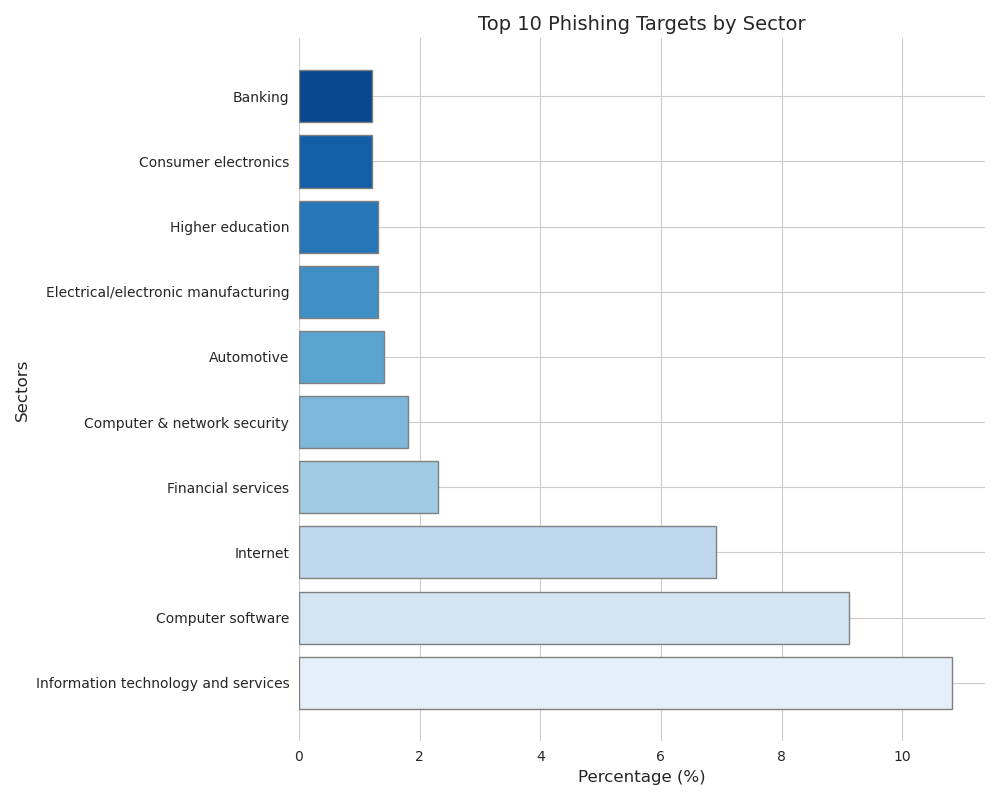
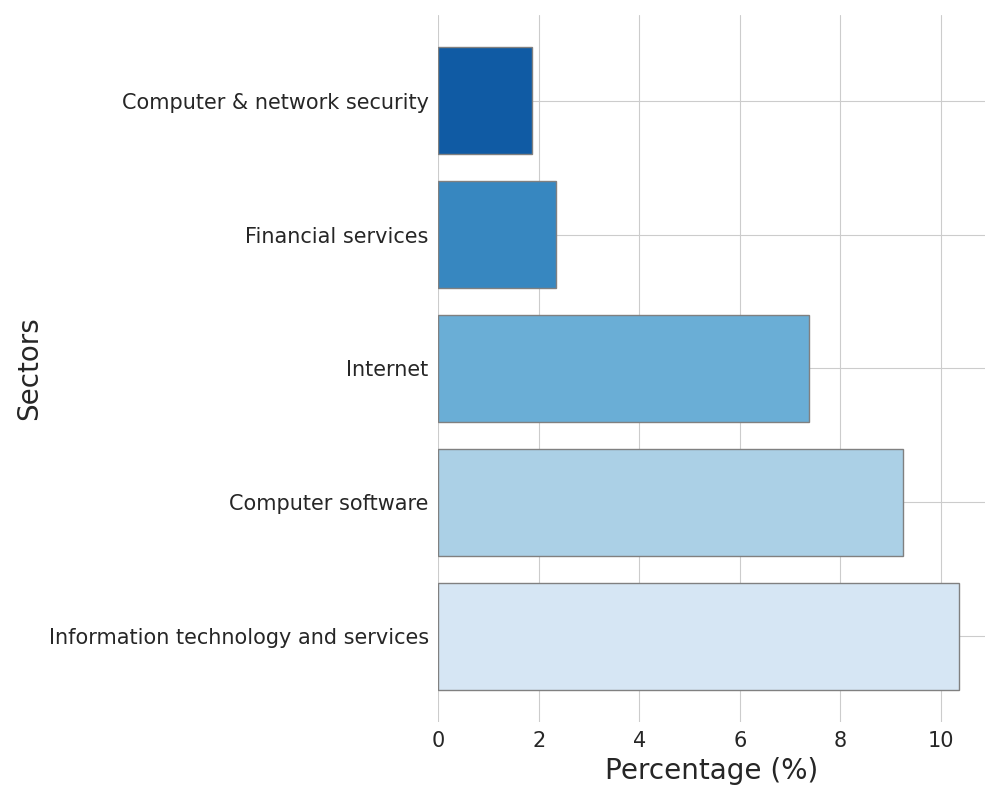
update plots

diff --git a/field_study/draw_utils.py b/field_study/draw_utils.py
@@ -229,7 +229,7 @@ class BrandAnalysis:
         plt.savefig('./field_study/plots/brand_freq.png')
         plt.close()
 
-    def visualize_sectors(sectors, topk=10):
+    def visualize_sectors(sectors, topk=5):
         # Aggregate the sectors
         sector_counts = Counter(sectors)
 
@@ -254,10 +254,10 @@ class BrandAnalysis:
         colors = sns.color_palette("Blues", len(labels))
 
         ax.barh(labels, percentages, color=colors, edgecolor='grey')
-        ax.set_xlabel('Percentage (%)', fontsize=12)
-        ax.set_ylabel('Sectors', fontsize=12)
-        ax.set_title('Top {} Phishing Targets by Sector'.format(topk), fontsize=14)
-        ax.tick_params(axis='both', which='major', labelsize=10)
+        ax.set_xlabel('Percentage (%)', fontsize=20)
+        ax.set_ylabel('Sectors', fontsize=20)
+        # ax.set_title('Top {} Phishing Targets by Sector'.format(topk), fontsize=20)
+        ax.tick_params(axis='both', which='major', labelsize=15)
 
         sns.despine(left=True, bottom=True)
         plt.tight_layout()
@@ -338,7 +338,7 @@ class CampaignAnalysis:
                     else:
                         normalized_edit_distance_sub = 1
 
-                    if normalized_edit_distance <= threshold or normalized_edit_distance_sub <= threshold:
+                    if normalized_edit_distance <= threshold or normalized_edit_distance_sub <= threshold and max(len(subdomain1), len(subdomain2))>3:
                         G.add_edge(i, j)
 
         # Use NetworkX's connected_components function to get the clusters
@@ -409,7 +409,7 @@ class CampaignAnalysis:
             _, dates, targets = zip(*cluster)
 
             # Filter Clusters
-            if len(cluster) < 4 or targets[0] == 'outlook.com':
+            if len(cluster) < 4 or targets[0] == 'outlook.com' or targets[0] == 'microsoft.com':
                 continue
 
             print(cluster)

diff --git a/model_chain/test_baseline.py b/model_chain/test_baseline.py
@@ -20,17 +20,10 @@ class TestBaseline():
         return phish_category, phish_target, str(phishpedia_runtime), plotvis
 
     def test_phishintention(self, URL, screenshot_path, ph_driver, obfuscate=False):
-        # XDriver.set_headless()
-        # ph_driver = XDriver.boot(chrome=True)
-        # time.sleep(5)
-        # ph_driver.set_page_load_timeout(30)
-        # ph_driver.set_script_timeout(60)
-
         start_time = time.time()
         phish_category, phish_target, plotvis, siamese_conf, dynamic, time_breakdown, pred_boxes, pred_classes = \
             self.phishintention_cls.test_orig_phishintention(URL, screenshot_path, ph_driver, obfuscate=obfuscate)
         phishintention_runtime = time.time() - start_time
-        # ph_driver.quit()
         return phish_category, phish_target, str(phishintention_runtime), plotvis
 
 
@@ -59,8 +52,8 @@ if __name__ == '__main__':
                 URL = list(pk_info['URL'])[0]
             except IndexError:
                 URL = f'http://127.0.0.5/{hash}'
-            pred, brand, runtime = base_cls.test_phishpedia(URL, shot_path)
-            # pred, brand, runtime = base_cls.test_phishintention(URL, shot_path)
+            pred, brand, runtime, _ = base_cls.test_phishpedia(URL, shot_path)
+            # pred, brand, runtime, _ = base_cls.test_phishintention(URL, shot_path)
 
             with open(result, 'a+') as f:
                 f.write(hash + '\t' + str(pred) + '\t' + str(brand) + '\t' + str(runtime) + '\n')
